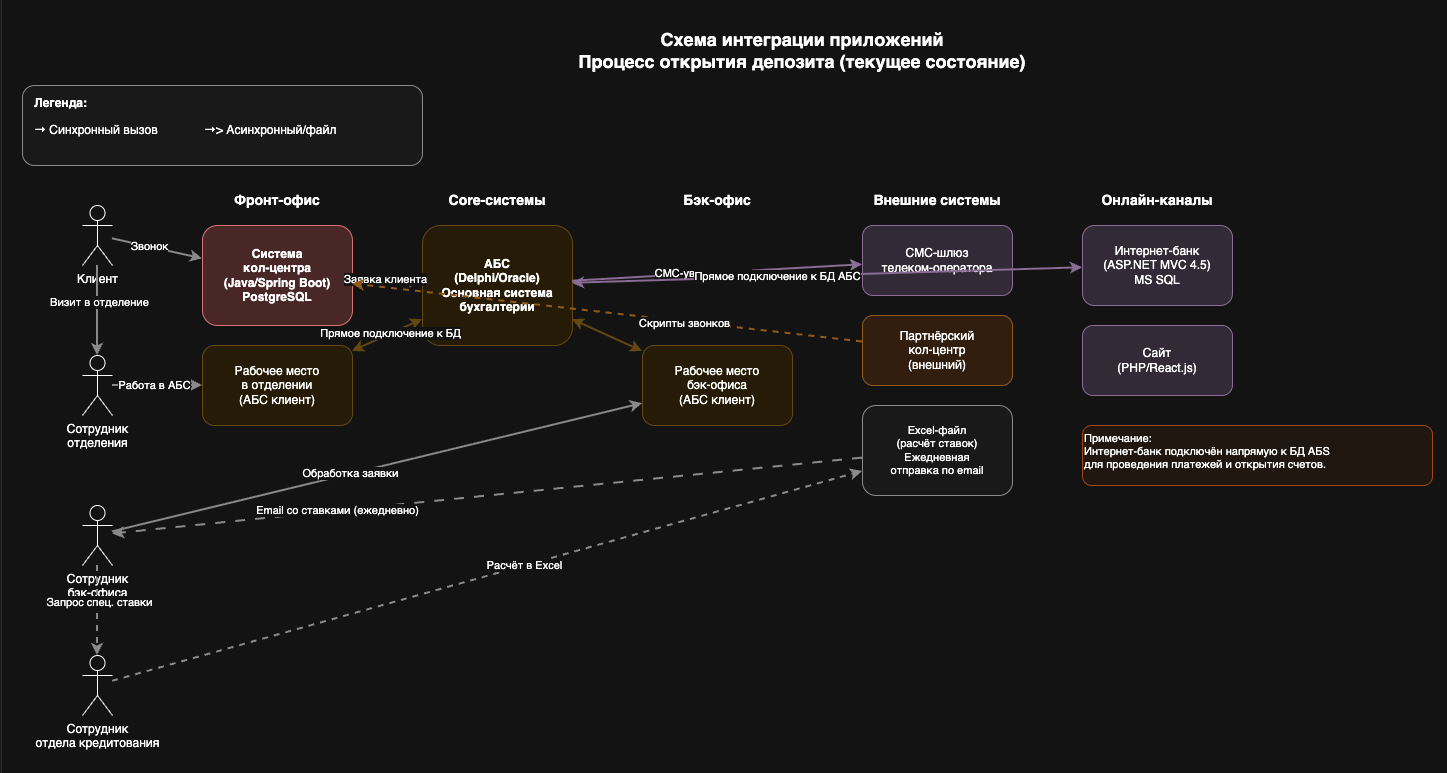
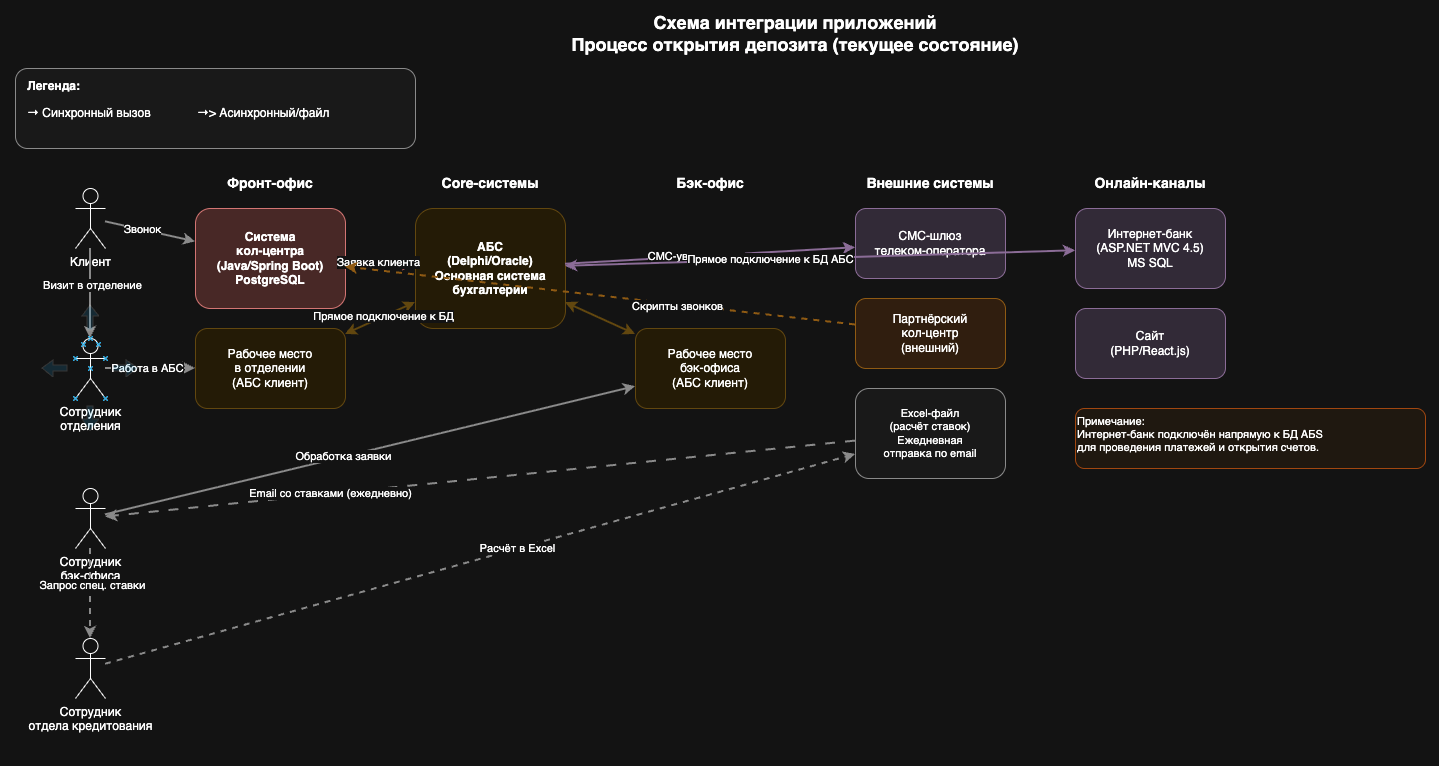
fix: Учтены замечания ревьювера

diff --git a/Task3/ADR_opening_deposits_online.md b/Task3/ADR_opening_deposits_online.md
@@ -139,7 +139,13 @@
 - Балансировка нагрузки
 - Кэширование справочных данных (ставки, список депозитов) для быстрого отклика
 
-**Технология:** ASP.NET Core (совместим с текущим интернет-банком) или Node.js/Express (есть экспертиза в банке)
+**Технология:** ASP.NET Core 8.0
+
+**Обоснование:**
+- Полная совместимость с текущим интернет-банком (ASP.NET MVC 4.5)
+- Экспертиза в банке по .NET-стеку
+- Встроенная поддержка TLS 1.3
+- Возможность масштабирования в будущем
 
 #### 2. Сервис ставок (Rates Service)
 **Назначение:** Автоматический расчёт и хранение ставок по депозитам
@@ -149,13 +155,18 @@
   - Ставки рефинансирования ЦБ
   - Уровня кредитного риска банка
   - Текущего объёма кредитов/депозитов
-- Хранение ставок в БД (Oracle или MS SQL)
+- Хранение ставок в БД
 - Предоставление API для получения актуальных ставок
 - Расчёт персонализированных ставок для существующих клиентов
 
-**Технология:** Java/Spring Boot (есть экспертиза в команде АБС) или Node.js/Express
+**Технология:** Java/Spring Boot 3.2
 
-**База данных:** Oracle (для интеграции с АБС) или MS SQL (совместим с интернет-банком)
+**База данных:** MS SQL
+
+**Обоснование:**
+- Экспертиза в команде АБС по Java-стеку
+- Совместимость с интернет-банком (MS SQL)
+- Возможность интеграции с АБС через API
 
 #### 3. Модуль депозитов в АБС
 **Назначение:** Обработка заявок на открытие депозитов
@@ -187,9 +198,14 @@
 - Отправка СМС о подтверждённой ставке
 - Отправка СМС об открытии депозита
 
-**Технология:** Разработка силами команды банка (Java/Spring Boot или Node.js)
+**Технология:** Java/Spring Boot 3.2
 
 **Интеграция:** СМС-шлюз телеком-оператора (существующий)
+
+**Обоснование:**
+- Разработка силами команды банка (без подрядчика АБС)
+- Экспертиза в команде АБС по Java-стеку
+- Возможность интеграции с существующим СМС-шлюзом
 
 #### 6. Сайт
 **Назначение:** Подача заявок на депозит новыми клиентами
@@ -276,38 +292,74 @@
 
 | Компонент | Технология | Обоснование |
 |:-:|:-|:-|
-| API Gateway | ASP.NET Core / Node.js | Совместимость с существующим интернет-банком / экспертиза в банке |
-| Сервис ставок | Java/Spring Boot / Node.js | Экспертиза в команде АБС / совместимость |
-| БД сервисов | MS SQL / Oracle | Совместимость с существующими системами |
+| API Gateway | ASP.NET Core 8.0 | Совместимость с существующим интернет-банком, экспертиза в банке |
+| Сервис ставок | Java/Spring Boot 3.2 | Экспертиза в команде АБС, совместимость с MS SQL |
+| БД сервисов | MS SQL | Совместимость с интернет-банком, экспертиза в банке |
 | Модуль депозитов в АБС | Delphi / Oracle | Расширение существующей АБС |
 | Модуль ставок в АБС | Delphi / Oracle | Расширение существующей АБС |
-| Модуль СМС в АБС | Java/Spring Boot / Node.js | Разработка силами команды банка |
+| Модуль СМС в АБС | Java/Spring Boot 3.2 | Разработка силами команды банка, экспертиза |
 | Сайт | PHP / React.js | Расширение существующего сайта |
 | Интернет-банк | ASP.NET MVC 4.5 / MS SQL | Расширение существующего интернет-банка |
 | Система кол-центра | Java/Spring Boot / PostgreSQL | Расширение существующей системы |
 | СМС-шлюз | Существующий | Использование существующего решения |
 
+### Источник истины по ставкам
+
+**Мастер-данные:** АБС (Oracle) — хранение ставок по депозитам
+
+**Расчёт ставок:** Сервис ставок (Java/Spring Boot) — автоматический расчёт на основе:
+- Ставки рефинансирования ЦБ
+- Уровня кредитного риска банка
+- Текущего объёма кредитов/депозитов
+
+**Кэш для чтения:** API Gateway (ASP.NET Core) — кэширование ставок для быстрого отклика
+
+**Интеграция:**
+- Сервис ставок записывает рассчитанные ставки в АБС (мастер-данные)
+- АБС уведомляет API Gateway об изменении ставок (webhook)
+- API Gateway кэширует ставки и обслуживает запросы чтения
+
+### Правила кэширования и актуализации
+
+**Общие ставки:**
+- Кэширование в API Gateway с TTL = 5 минут
+- Инвалидация кэша при получении webhook от АБС об изменении ставок
+- Если webhook недоступен — периодический poll каждые 5 минут
+
+**Персонализированные ставки:**
+- Не кэшируются (индивидуальные для каждого клиента)
+- Запросы проходят напрямую в Сервис ставок → АБС
+- Результаты могут кэшироваться на короткий период (TTL = 1 минута) для повторных запросов
+
+**Актуализация ставок:**
+- Расчёт ставок происходит автоматически в Сервисе ставок ежедневно в 02:00
+- После расчёта ставки записываются в АБС
+- АБС отправляет webhook в API Gateway для инвалидации кэша
+
 ### Выбор технологий
 
-**Почему ASP.NET Core / Node.js для API Gateway:**
-- Совместимость с текущим интернет-банком (ASP.NET)
-- Экспертиза в банке (Java/Spring Boot в АБС)
+**Почему ASP.NET Core 8.0 для API Gateway:**
+- Полная совместимость с текущим интернет-банком (ASP.NET MVC 4.5)
+- Экспертиза в банке по .NET-стеку
+- Встроенная поддержка TLS 1.3
+- Встроенная поддержка кэширования (MemoryCache, Redis)
 - Возможность масштабирования в будущем
-- Поддержка шифрования TLS
 
-**Почему Java/Spring Boot для Сервиса ставок:**
-- Экспертиза в команде АБС
-- Совместимость с Oracle
-- Возможность интеграции с АБС
+**Почему Java/Spring Boot 3.2 для Сервиса ставок:**
+- Экспертиза в команде АБС по Java-стеку
+- Совместимость с MS SQL через JDBC
+- Возможность интеграции с АБС через REST API
+- Надёжная экосистема для финансовых расчётов
 
 **Почему MS SQL для сервисов:**
-- Совместимость с интернет-банком
+- Совместимость с интернет-банком (ASP.NET MVC 4.5 / MS SQL)
 - Экспертиза в банке
+- Возможность использования одного экземпляра БД для нескольких сервисов
 
 **Почему Delphi/Oracle для АБС:**
 - Существующая система
 - Поддержка подрядчиком
-- Возможность расширения
+- Возможность расширения без переписывания ядра
 
 ### Диаграммы C4
 

diff --git a/Task4/ADR_rates_to_call_center.md b/Task4/ADR_rates_to_call_center.md
@@ -67,6 +67,9 @@
 | UC-7 | Менеджер кол-центра, Клиент | Информирование о ставке | Менеджер сообщает клиенту ставку по депозиту во время звонка |
 | UC-8 | Менеджер кол-центра, Система кол-центра | Создание заявки на депозит | После согласования ставки менеджер создаёт заявку на депозит в системе кол-центра |
 | UC-9 | Система кол-центра, АБС | Передача заявки на депозит | Заявка на депозит передаётся в АБС для обработки |
+| UC-10 | Система кол-центра, API Gateway | Retry при ошибке API | Система кол-центра автоматически повторяет запрос при ошибке API (retry с экспоненциальной задержкой) |
+| UC-11 | Система кол-центра, API Gateway | Фолбэк на файловую передачу | При длительной недоступности API система переключается на файловый режим (CSV/SFTP) |
+| UC-12 | Администратор, API Gateway | Уведомление о недоступности API | Администратор получает уведомление о недоступности API через систему мониторинга |
 
 ---
 
@@ -80,6 +83,9 @@
 | NFR-4 | Шифрование трафика (TLS/SSL) между системами |
 | NFR-5 | Использование существующих технологий |
 | NFR-6 | Минимальные изменения в АБС |
+| NFR-7 | Retry-механизм: 3 попытки с экспоненциальной задержкой (1с, 2с, 4с) при временных ошибках API |
+| NFR-8 | Фолбэк-режим: переключение на файловую передачу (CSV/SFTP) при недоступности API более 5 минут |
+| NFR-9 | Логирование всех ошибок API и отправка алертов администратору при недоступности более 1 минуты |
 
 ---
 
@@ -219,6 +225,64 @@
 3. API Gateway → АБС: создание заявки на депозит
 4. АБС → Менеджер бэк-офиса: уведомление о новой заявке
 
+#### Поток 4: Retry и фолбэк при недоступности API
+1. Система кол-центра → API Gateway: запрос ставок
+2. API Gateway → Сервис ставок: запрос (ошибка — временный сбой)
+3. API Gateway: повторная попытка через 1 секунду (retry)
+4. API Gateway → Сервис ставок: запрос (ошибка — временный сбой)
+5. API Gateway: повторная попытка через 2 секунды (retry)
+6. API Gateway → Сервис ставок: запрос (ошибка — сервис недоступен более 5 минут)
+7. API Gateway: переключение на фолбэк-режим (файловая передача)
+8. Система кол-центра: генерация CSV-файла с запросом ставок
+9. Система кол-центра → SFTP-сервер: передача файла
+10. Администратор: получение уведомления о недоступности API
+
+### Ограничения доступа и безопасность
+
+**Внутренний кол-центр (сотрудники банка):**
+- Полный доступ к общим ставкам по депозитам
+- Доступ к персонализированным ставкам (с clientId)
+- Роль: `internal_call_center`
+
+**Партнёрский кол-центр (внешняя компания):**
+- Только общие ставки по депозитам (без персонализации)
+- Нет доступа к персональным данным клиентов
+- Роль: `partner_call_center`
+
+**Аутентификация:**
+- OAuth2/JWT токены для всех API-запросов
+- Валидация токена на API Gateway
+- Токены выдаются с ограниченным сроком действия (1 час)
+- Обновление токена через refresh token (срок действия 24 часа)
+
+**Авторизация:**
+- Проверка роли на каждом endpoint
+- `GET /api/rates/deposits` — доступ: `internal_call_center`, `partner_call_center`
+- `GET /api/rates/deposits/personalized?clientId={id}` — доступ: только `internal_call_center`
+- `POST /api/deposits/applications` — доступ: `internal_call_center`, `partner_call_center` (только общие заявки)
+- Партнёры не могут создавать заявки с персонализированными ставками
+
+**Аудит:**
+- Логирование всех запросов к API:
+  - Timestamp
+  - UserId (идентификатор менеджера)
+  - ClientId (если применимо)
+  - Endpoint
+  - HTTP метод
+  - StatusCode
+  - IP-адрес запроса
+- Хранение логов минимум 90 дней
+- Экспорт логов в систему мониторинга (ELK Stack или аналогичная)
+
+**Минимизация данных:**
+- Для партнёрского кол-центра:
+  - Передаются только базовые ставки по депозитам
+  - Без персональных данных клиентов
+  - Без clientId в запросах
+- Для внутреннего кол-центра:
+  - Передаются только необходимые данные для расчёта персонализированной ставки
+  - Минимизация объёма передаваемых данных (только clientId, без полной истории клиента)
+
 ### Технологический стек
 
 | Компонент | Технология | Обоснование |
@@ -290,6 +354,9 @@
 | Некорректный расчёт персонализированной ставки | Низкая | Высокое | Тестирование, ручной контроль |
 | Перегрузка Сервиса ставок | Средняя | Среднее | Масштабирование, мониторинг |
 | Проблемы с интеграцией АБС | Средняя | Среднее | Тестирование интеграции, работа с подрядчиком |
+| Недоступность API (временный сбой) | Средняя | Среднее | Retry-механизм с экспоненциальной задержкой |
+| Длительная недоступность API | Низкая | Высокое | Фолбэк на файловую передачу (CSV/SFTP), алерты администратору |
+| Несанкционированный доступ к персональным данным | Низкая | Высокое | OAuth2/JWT авторизация, проверка ролей, аудит всех запросов |
 
 ---
 
@@ -318,7 +385,10 @@
 | AG-5 | Маршрутизация запросов к Сервису ставок и АБС | Высокий | 2 |
 | AG-6 | Мониторинг и логирование | Средний | 1 |
 | AG-7 | Тестирование производительности | Средний | 2 |
-| **Итого** | | | **11** |
+| AG-8 | Реализация retry-механизма (3 попытки с экспоненциальной задержкой) | Высокий | 2 |
+| AG-9 | Реализация фолбэка на файловую передачу (CSV/SFTP) | Средний | 3 |
+| AG-10 | Настройка алертов при недоступности API | Средний | 1 |
+| **Итого** | | | **17** |
 
 ### Сервис ставок
 
@@ -358,11 +428,11 @@
 | Система | Оценка (чел/дни) |
 |:-:|:-:|
 | Система кол-центра | 13 |
-| API Gateway | 11 |
+| API Gateway | 17 |
 | Сервис ставок | 13 |
 | АБС | 14 |
 | Тестирование и запуск | 12 |
-| **Всего** | **63 чел/дней** (~3 месяца при команде из 3 человек) |
+| **Всего** | **69 чел/дней** (~3.5 месяца при команде из 3 человек) |
 
 ---
 

diff --git a/Task2/furps_requirements.md b/Task2/furps_requirements.md
@@ -40,12 +40,12 @@
 
 | № | Требование |
 |:-:|:-|
-| NFR-1 | **Производительность (Functionality):** Отклик по всем операциям должен быть максимально быстрым и занимать миллисекунды. Справочные данные должны загружаться менее чем за 100 мс |
-| NFR-2 | **Доступность (Usability):** Все сервисы должны работать 24/7 и быть доступны в 99.9% случаев |
-| NFR-3 | **Надёжность (Reliability):** В случае сбоев в ЦОД сервисы интернет-банка должны быть доступны и выдерживать требуемую нагрузку |
+| NFR-1 | **Производительность (Performance):** Отклик по транзакционным операциям — менее 500 мс. Справочные данные должны загружаться менее чем за 100 мс |
+| NFR-2 | **Доступность (Reliability):** Все сервисы должны работать 24/7 и быть доступны в 99.9% случаев |
+| NFR-3 | **Надёжность (Reliability):** В случае сбоев в ЦОД сервисы интернет-банка должны быть доступны и выдерживать нагрузку до 100 одновременных пользователей |
 | NFR-4 | **Поддержка (Supportability):** Использовать технологии, которые уже есть в банке (MS SQL, Oracle). Новые технологии должны быть совместимы с существующими платформами разработки |
-| NFR-5 | **Безопасность (Functionality):** Данные при передаче между системами должны быть защищены механизмом шифрования трафика (TLS/SSL) |
-| NFR-6 | **Масштабируемость:** Избегать прямой работы интернет-банка с API АБС в новом процессе для предотвращения перегрузки БД |
+| NFR-5 | **Безопасность (Security):** Данные при передаче между системами должны быть защищены механизмом шифрования трафика (TLS 1.3) |
+| NFR-6 | **Масштабируемость:** Избегать прямой работы интернет-банка с API АБС в новом процессе для предотвращения перегрузки БД. Нагрузка на АБС не должна превышать 10 запросов/сек |
 | NFR-7 | **Экспертиза:** Желательно, чтобы внутри банка уже была экспертиза в используемых технологиях (на уровне языков программирования) |
 | NFR-8 | **Очереди сообщений:** При необходимости использовать очереди сообщений (Kafka на перспективу) |
 | NFR-9 | **Дизайн (Usability):** Интерфейс работы должен быть максимально удобным для клиента. Соблюдать систему дизайна компании (цвета, брендированные элементы) |

diff --git a/Task1/README.md b/Task1/README.md
@@ -20,12 +20,33 @@
   - Управление кредитными продуктами
   - Команда цифровой трансформации
 
-- **По горизонтали:** Бизнес-возможности
-  - Обслуживание клиентов
-  - Продукты банка
-  - Кредитование
-  - Депозитные продукты
-  - Цифровая трансформация
+- **По горизонтали:** Бизнес-возможности 2-го уровня (Level 2 Capabilities)
+
+  **Обслуживание клиентов:**
+  - Открытие и обслуживание текущих счетов
+  - Проведение платежей
+  - Идентификация клиентов (KYC)
+  - Обслуживание в отделениях
+
+  **Продукты банка:**
+  - Выпуск дебетовых карт
+  - Управление картами
+
+  **Кредитование:**
+  - Выдача кредитов
+  - Расчёт кредитных ставок
+  - Оценка кредитного риска
+
+  **Депозитные продукты:**
+  - Открытие депозитов
+  - Открытие накопительных счетов
+  - Расчёт депозитных ставок
+
+  **Цифровая трансформация:**
+  - Интернет-банк
+  - Сайт банка
+  - Онлайн-подача заявок
+  - СМС-уведомления
 
 **Ключевые системы:**
 - **АБС (Oracle)** — основная система банка, используется в большинстве бизнес-возможностей
